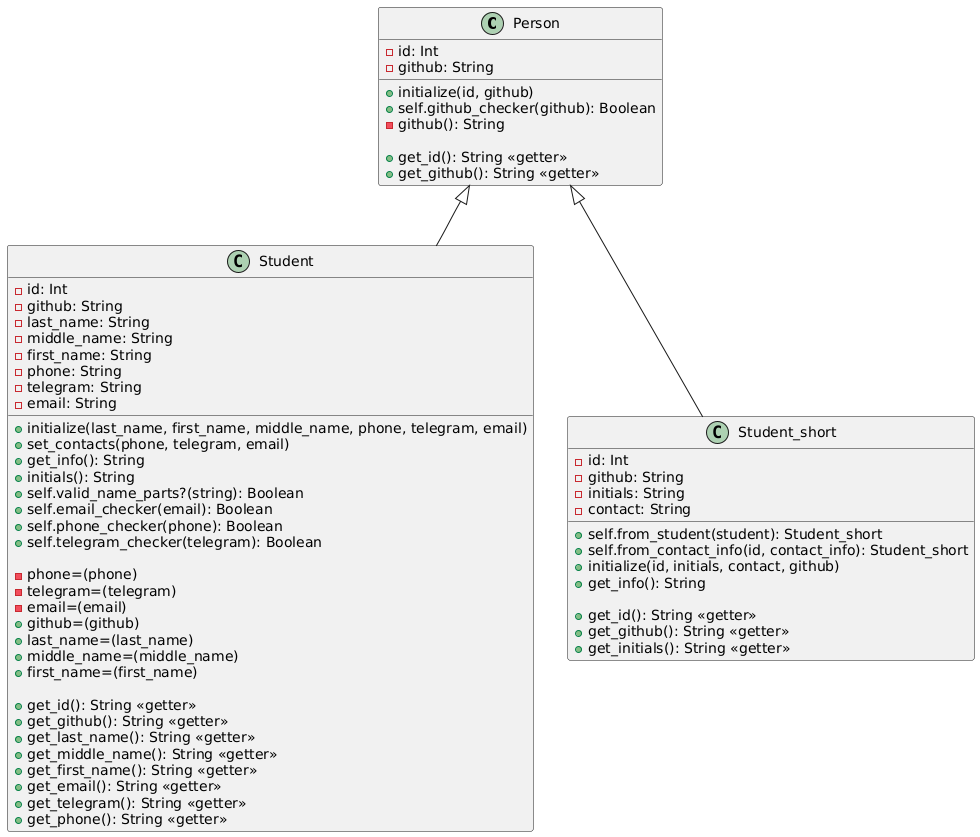
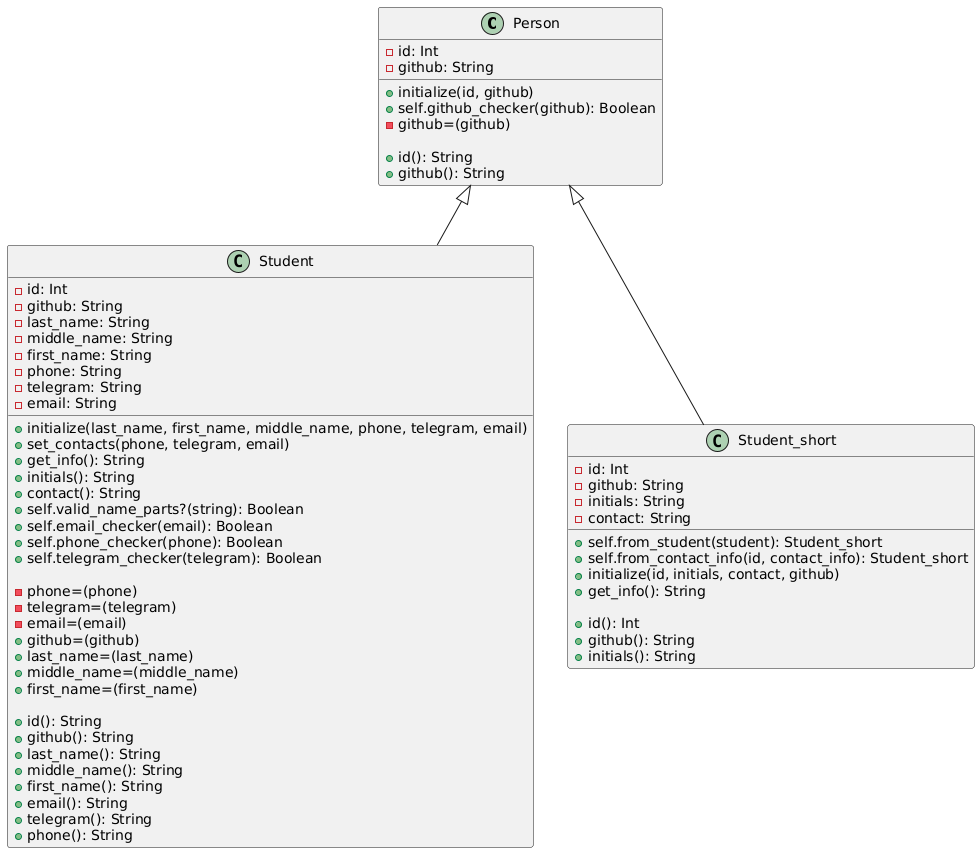
lab2:_add_getter_for_github_in_student_class

diff --git a/OOP_in_Ruby/student.rb b/OOP_in_Ruby/student.rb
@@ -2,7 +2,7 @@ require_relative 'person'
 
 class Student < Person
   attr_reader :last_name, :first_name, :middle_name, :phone, :telegram, :email, :id , :github
-  attr_writer :last_name, :firs_name, :middle_name
+  attr_writer :last_name, :firs_name, :middle_name, :github
 		
   def initialize(last_name:, first_name:, middle_name:, phone: nil, telegram: nil, email: nil, id: nil, github: nil)
     super(id: id, github: github)
